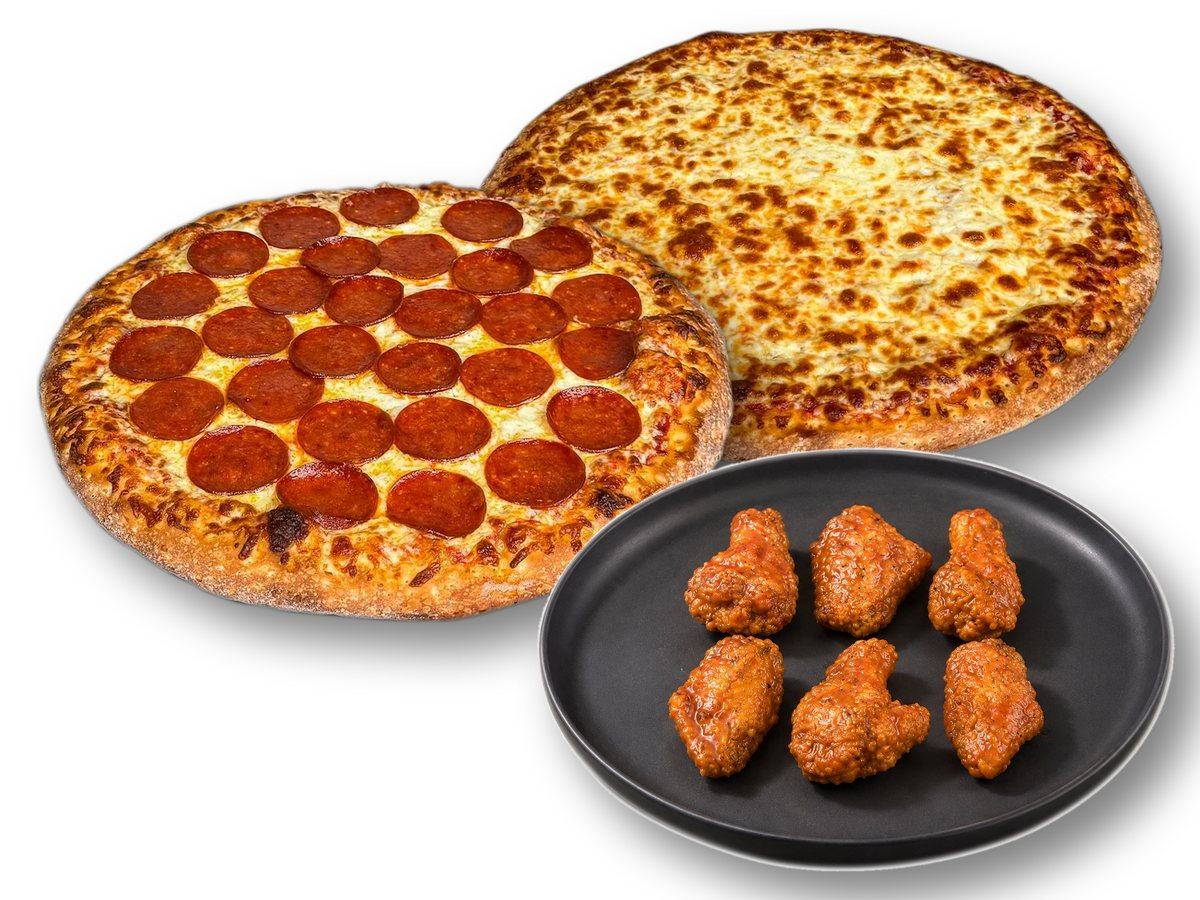
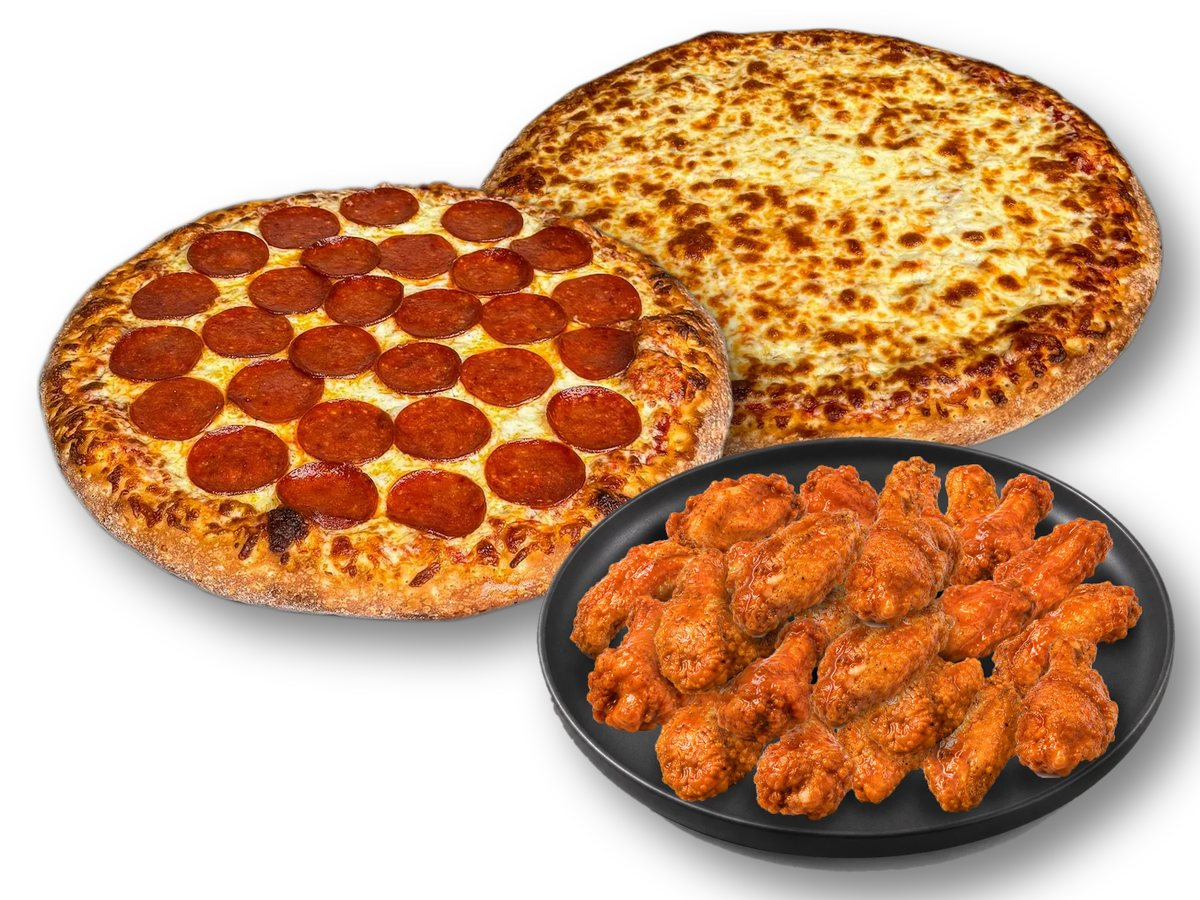
Wings plates for 6/12/16/20/25: white background and baked-in shadow removed, resized to WebP; combo images rebuilt with the matching plate
Claude-Session: https://claude.ai/code/session_01GwuNKQ4EhJTqGbbawQ6M8A

Changed region(s): [[0.4317, 0.4667, 0.9867, 0.9956]]

diff --git a/scripts/combo-images.py b/scripts/combo-images.py
@@ -37,12 +37,12 @@ def two_pizzas(back, front, width):
     return c.convert("RGB")
 
 def plate(count, width):
-    # wings plate photo: the biggest public/images/wings/plate-<n>.png with
-    # n <= count (so 16 wings uses plate-12, 25 uses plate-20), else the smallest
+    # wings plate photo: the biggest public/images/wings/plate-<n>.webp with
+    # n <= count (an exact match when there is one), else the smallest
     import glob, re
-    plates = sorted(int(re.search(r"plate-(\d+)", f).group(1)) for f in glob.glob(f"{PUB}/wings/plate-*.png"))
+    plates = sorted(int(re.search(r"plate-(\d+)", f).group(1)) for f in glob.glob(f"{PUB}/wings/plate-*.webp"))
     pick = max([n for n in plates if n <= count], default=plates[0])
-    path = f"{PUB}/wings/plate-{pick}.png"
+    path = f"{PUB}/wings/plate-{pick}.webp"
     im = Image.open(path).convert("RGBA")
     return im.resize((width, round(im.height * width / im.width)), Image.LANCZOS)
 
